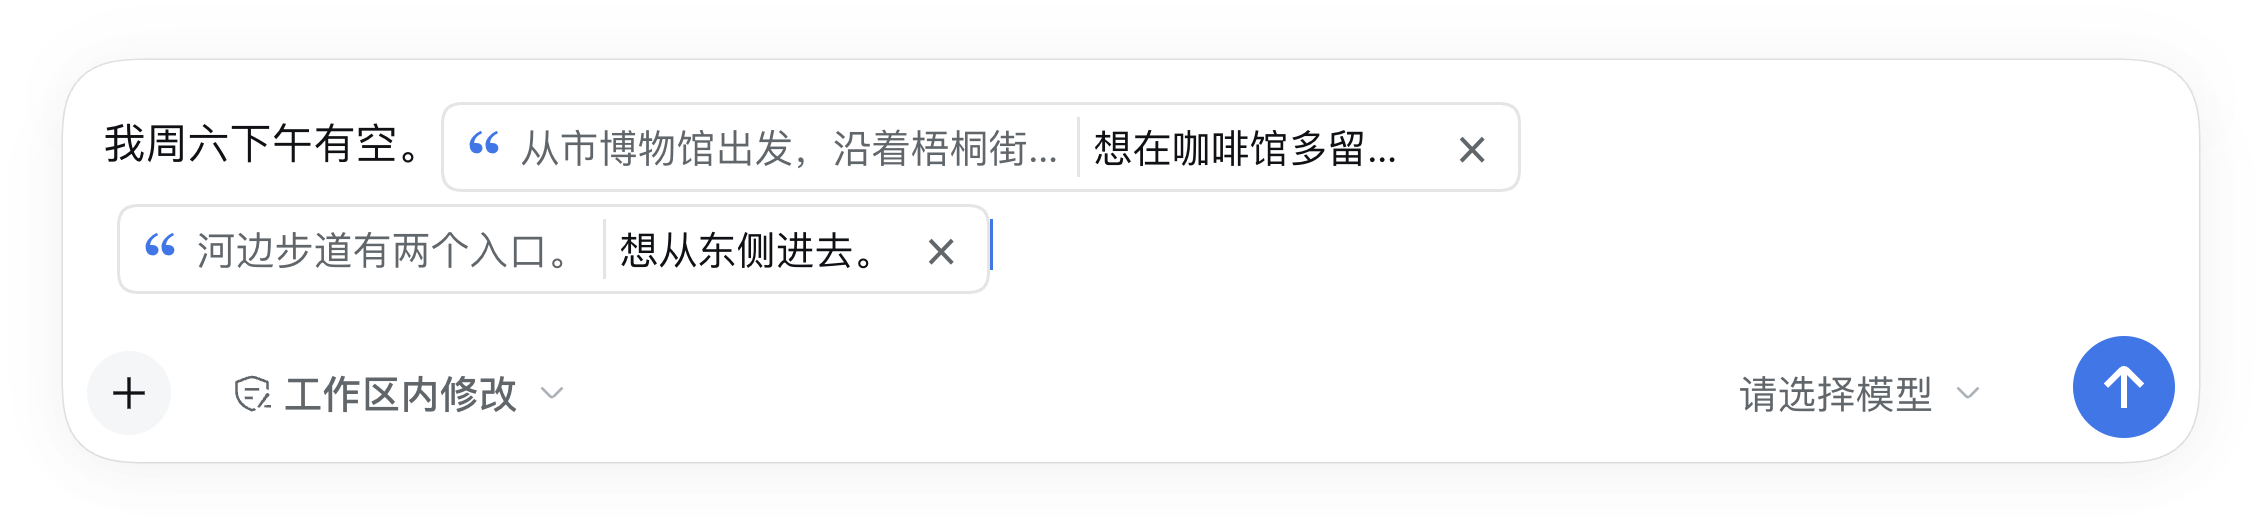
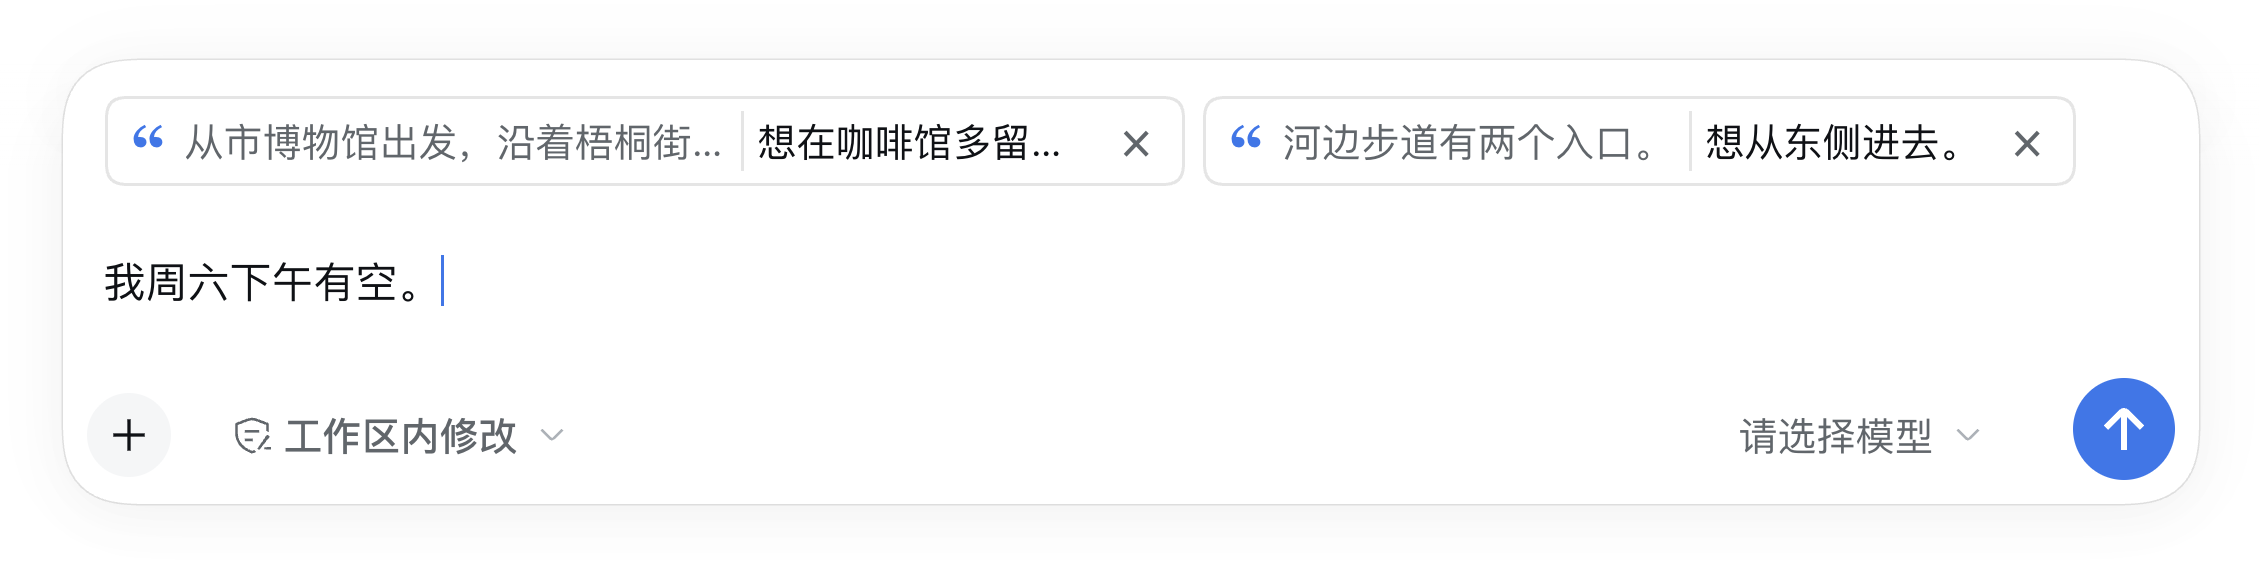
Pin quote reply bubbles above the composer text

diff --git a/client.js b/client.js
@@ -10,7 +10,6 @@ window.__ModuleLoader__.load({
     const pluginId = 'quote-reply'
     const namespace = 'quoteReply'
     const draftSource = 'quote-reply'
-    const draftChipSelector = '[data-composer-chip="' + draftSource + '"]'
     const draftCodec = {
       trigger: '@',
       name: draftSource,
@@ -453,32 +452,14 @@ window.__ModuleLoader__.load({
       )
     }
 
-    function useDraftChipHosts(seat, replies) {
-      const [hosts, setHosts] = useState([])
-      useLayoutEffect(() => {
-        const editor = seat.current?.closest('[data-composer-card]')?.querySelector('[data-composer-input]')
-        if (!editor) return
-        function reconcile() {
-          const elements = [...editor.querySelectorAll(draftChipSelector)]
-          setHosts(previous => elements.length === previous.length
-            && elements.every((element, index) => element === previous[index]) ? previous : elements)
-        }
-        reconcile()
-        const observer = new MutationObserver(reconcile)
-        observer.observe(editor, { childList: true, subtree: true })
-        return () => observer.disconnect()
-      }, [seat, replies])
-      return hosts.length === replies.length ? hosts : []
-    }
-
     function ComposerQuoteReplies({ model, inputActions, t }) {
       const state = useSyncExternalStore(model.subscribe, model.getSnapshot)
       const [origin, setOrigin] = useState(null)
       const [notice, setNotice] = useState(false)
       const seat = useRef(null)
       const resume = useRef(null)
-      const hosts = useDraftChipHosts(seat, state.replies)
       const panel = state.panel?.origin === origin ? state.panel : null
+      const hasReplies = state.replies.length > 0
 
       useLayoutEffect(() => {
         const owner = seat.current?.closest(conversationSelector) ?? null
@@ -491,7 +472,25 @@ window.__ModuleLoader__.load({
       }, [panel?.picking])
 
       return h(Fragment, null,
-        h('div', { ref: seat, className: 'qrp-composer-extras', hidden: !panel?.picking && !notice },
+        h('div', { ref: seat, className: 'qrp-composer-extras', hidden: !hasReplies && !panel?.picking && !notice },
+          hasReplies && h('div', { className: 'qrp-draft-replies', role: 'group', 'aria-label': t('draft.replies') },
+            state.replies.map(reply => {
+              const original = quoteTextOf(reply.clipboardText.trimStart().split('\n')[0])
+              return h('span', { key: reply.occurrenceId, className: 'qrp-draft-chip', title: reply.clipboardText.trim() },
+                h(QuoteGlyph),
+                h('span', { className: 'qrp-ellipsis qrp-draft-origin' }, original),
+                h('span', { className: 'qrp-ellipsis qrp-draft-response' }, reply.label),
+                h('button', {
+                  type: 'button',
+                  className: 'qrp-remove',
+                  'aria-label': t('draft.remove') + ': ' + reply.label,
+                  disabled: !state.editable,
+                  onMouseDown: event => event.preventDefault(),
+                  onClick() { setNotice(!model.remove(inputActions, reply.occurrenceId)) },
+                }, h('span', { 'aria-hidden': true }, '×')),
+              )
+            }),
+          ),
           panel?.picking && h('div', { className: 'qrp-picking', 'data-qrp-picking': '' },
             h('span', { role: 'status' }, t('quote.pick')),
             h('button', {
@@ -501,26 +500,6 @@ window.__ModuleLoader__.load({
           ),
           notice && h('span', { className: 'qrp-notice', role: 'alert' }, t('draft.unavailable')),
         ),
-        hosts.map((host, index) => {
-          const reply = state.replies[index]
-          const original = quoteTextOf(reply.clipboardText.trimStart().split('\n')[0])
-          return createPortal(h('span', { className: 'qrp-draft-chip', title: reply.clipboardText.trim() },
-            h(QuoteGlyph),
-            h('span', { className: 'qrp-ellipsis qrp-draft-origin' }, original),
-            h('span', { className: 'qrp-ellipsis qrp-draft-response' }, reply.label),
-            h('button', {
-              type: 'button',
-              className: 'qrp-remove',
-              'aria-label': t('draft.remove') + ': ' + reply.label,
-              disabled: !state.editable,
-              onMouseDown: event => event.preventDefault(),
-              onClick(event) {
-                event.stopPropagation()
-                setNotice(!model.remove(inputActions, reply.occurrenceId))
-              },
-            }, h('span', { 'aria-hidden': true }, '×')),
-          ), host, reply.occurrenceId)
-        }),
         panel && createPortal(h(QuoteReplyPanel, { model, panel, t }), origin.ownerDocument.body),
       )
     }
@@ -536,6 +515,7 @@ window.__ModuleLoader__.load({
       'reply.add': '加入草稿',
       'reply.cancel': '取消',
       'reply.newline': '换行',
+      'draft.replies': '引用回复草稿',
       'draft.remove': '删除这条引用回复',
       'draft.unavailable': '聊天框暂时无法编辑，请稍后再试。',
     }
@@ -550,6 +530,7 @@ window.__ModuleLoader__.load({
       'reply.add': 'Add to draft',
       'reply.cancel': 'Cancel',
       'reply.newline': 'New line',
+      'draft.replies': 'Quote replies in draft',
       'draft.remove': 'Remove this quote reply',
       'draft.unavailable': 'The chat box is temporarily unavailable. Try again shortly.',
     }
@@ -727,10 +708,20 @@ window.__ModuleLoader__.load({
   position: relative;
   height: auto;
 }
-.qrp-composer-extras { padding: 8px 10px 0; }
+.qrp-composer-extras { display: grid; gap: 6px; padding-inline: 10px; }
 .qrp-composer-extras[hidden] { display: none; }
-/* The composer mounts its stock decorator into the same atomic node. */
-[data-composer-chip="quote-reply"]:has(> .qrp-draft-chip) > :not(.qrp-draft-chip) { display: none; }
+[data-composer-card]:has(.qrp-draft-replies) [data-composer-input] [data-composer-chip="quote-reply"] {
+  display: none;
+}
+.qrp-draft-replies {
+  display: flex;
+  flex-wrap: wrap;
+  align-content: flex-start;
+  gap: 6px;
+  max-height: min(112px, 27dvh);
+  overflow: auto;
+  padding: 4px;
+}
 .qrp-draft-chip, .qrp-picking {
   align-items: center;
   gap: 5px;
@@ -746,15 +737,10 @@ window.__ModuleLoader__.load({
   display: inline-flex;
   box-sizing: border-box;
   max-width: min(100%, 360px);
-  margin-block: 2px;
-  vertical-align: middle;
-}
-[data-composer-chip="quote-reply"] + [data-composer-chip="quote-reply"] > .qrp-draft-chip {
-  margin-inline-start: 4px;
 }
 .qrp-draft-origin { max-width: 180px; color: var(--dsw-alias-label-secondary); }
 .qrp-draft-response { padding-inline-start: 5px; border-inline-start: 1px solid var(--dsw-alias-border-l2); }
-.qrp-picking { justify-content: space-between; margin-bottom: 5px; }
+.qrp-picking { justify-content: space-between; }
 .qrp-remove {
   flex: none;
   width: 22px;

diff --git a/README.en.md b/README.en.md
@@ -2,7 +2,7 @@
 
 [简体中文](README.md)
 
-**Select text and reply right beside it.** Add several quote replies to your chat draft, each as its own removable chip.
+**Select text and reply right beside it.** Each quote reply appears as a removable chip at the top of the composer.
 
 ![Demo: write two separate quote replies, add them to the draft, and remove one chip](docs/images/quote-reply-demo.gif)
 
@@ -10,10 +10,10 @@
 
 - **Reply in place.** Open a popover from the text selection. The preview shows up to three lines. Hover or click to see the full quote.
 - **Answer several passages together.** Click **+ Select another**, highlight another passage, and click **Add quote**. Your reply stays in the popover.
-- **Keep drafts readable.** Each quote reply appears as one inline chip. Hover to read it in full or click `×` to remove that reply.
+- **Keep quote replies in view.** Chips stay above the draft text as you type or scroll, in the order you added them. Hover to read a reply in full or click `×` to remove it.
 - **Send from the composer.** At send time, the quoted text becomes standard Markdown blockquotes, with a blank line before the reply. The UI follows the Harness language setting and supports English and Simplified Chinese.
 
-![Two removable inline quote reply chips in the composer](docs/images/composer-bubbles.png)
+![Two removable quote reply chips at the top of the composer](docs/images/composer-bubbles.png)
 
 ## Install
 
@@ -54,6 +54,6 @@ dsh web
 
 1. Select text in a conversation and click **Quote reply** beside the selection.
 2. Write your reply. Press `Enter` or click the blue up arrow to add it to your draft.
-3. To write a separate reply, select the next passage and click **Quote reply** to open a fresh popover. Each reply has its own chip, and you can send them together from the composer.
+3. To write a separate reply, select the next passage and click **Quote reply** to open a fresh popover. The two chips are shown in order at the top of the composer and can be sent together.
 
 In the popover, press `Shift+Enter` for a new line. Press `Esc`, click **Esc Cancel**, or click outside the popover to close it. **Add to draft** is disabled while the reply is empty.

diff --git a/README.md b/README.md
@@ -2,7 +2,7 @@
 
 [English](README.en.md)
 
-给 DeepSeek Harness 用的引用回复插件。**划选文字，在选区旁写回复。** 连续写几条引用回复，聊天框里每条各有一个可删除的气泡。
+给 DeepSeek Harness 用的引用回复插件。**划选文字，在选区旁写回复。** 每条引用回复会成为一个可删除的气泡，固定显示在聊天框顶部。
 
 ![操作演示：分别写两条引用回复，加入草稿后单独删除其中一条](docs/images/quote-reply-demo.gif)
 
@@ -10,10 +10,10 @@
 
 - **就地回复。** 划选后点「引用回复」，在选区旁写。原文最多预览三行，悬停或点击可以看全文。
 - **一起回答多段原文。** 点「＋ 再选一段」，选中另一段后点「加入引用」。已写的回复会保留。
-- **草稿一目了然。** 每条引用回复以一个行内气泡显示。悬停可看全文，点 `×` 可删除这一条。
+- **气泡固定在顶部。** 气泡按添加顺序排列，普通草稿在下面，滚动草稿时也能看到气泡。悬停可看全文，点 `×` 可删除这一条。
 - **照常发送。** 用聊天框的发送按钮提交，原文会展开成标准 Markdown 引用，与回复之间留一行空白。界面跟随 Harness 的中英文设置。
 
-![聊天框中的两条可删除的行内引用回复](docs/images/composer-bubbles.png)
+![聊天框顶部的两条可删除的引用回复](docs/images/composer-bubbles.png)
 
 ## 安装
 
@@ -54,6 +54,6 @@ dsh web
 
 1. 在会话消息里划选文字，点选区旁的「引用回复」。
 2. 写回复，按 `Enter` 或点蓝色上箭头，把内容加入聊天框草稿。
-3. 要单独回复下一段时，再划选那段原文，点「引用回复」打开新的回复框。每条回复各有一个气泡，可以一起发送。
+3. 要单独回复下一段时，再划选那段原文，点「引用回复」打开新的回复框。两个气泡依次排在聊天框顶部，可以一起发送。
 
 弹窗里用 `Shift+Enter` 换行，按 `Esc`、点「Esc 取消」或点击弹窗外可关闭。回复为空时，「加入草稿」不可用。

diff --git a/docs/DETAIL.md b/docs/DETAIL.md
@@ -2,7 +2,7 @@
 
 划选对话中的文字，点击选区旁的「引用回复」。气泡会显示最多三行原文。把鼠标移到预览上可看全文，也可以点击预览展开。
 
-在气泡里输入回复，按 Enter 或点蓝色上箭头加入草稿。每条引用回复在聊天框中显示为一个气泡，悬停可以查看全文。点击聊天框的发送按钮时，消息会带上完整引用和回复，引用与正文之间空一行。
+在气泡里输入回复，按 Enter 或点蓝色上箭头加入草稿。气泡按添加顺序固定在聊天框顶部，普通草稿在下面。悬停可以查看全文。点击聊天框的发送按钮时，消息会带上完整引用和回复，引用与正文之间空一行。
 
 - 用 Shift+Enter 换行。回复为空或只有空白字符时，「加入草稿」为禁用状态。
 - 按 Esc、点底部的「Esc 取消」或点气泡外关闭回复弹窗。
